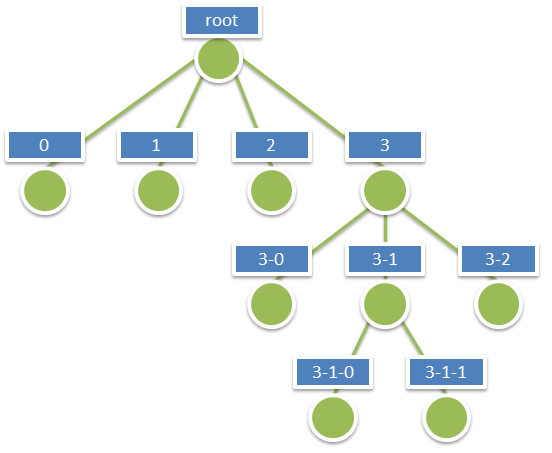
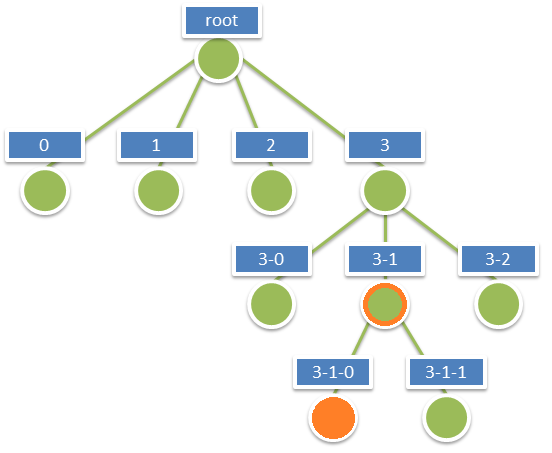
indexing model and tree structure

Changed region(s): [[0.5543, 0.8653, 0.6467, 0.989], [0.6467, 0.6181, 0.7391, 0.7417]]

diff --git a/format/Indexed 3d Scene Layer Format Specification.md b/format/Indexed 3d Scene Layer Format Specification.md
@@ -73,7 +73,7 @@ The Esri Indexed 3d Scene layer (I3S) format and the corresponding Scene Layer P
 
 <h2><a name="_2">3D Scene Layer</a></h2>
 
-A single I3S data set is referred to as a Scene Layer.  It is a container for arbitrarily large amounts of heterogeneously distributed 3D geographic data.  Scene Layers provide clients access to data, and allow them the flexibility to visualize it according to their needs.  The definition of "data" in this case includes the geometry, attributes, and vertex geometry. 
+A single I3S data set is referred to as a Scene Layer.  It is a container for arbitrarily large amounts of heterogeneously distributed 3D geographic data.  Scene Layers provide clients access to data and allow them the flexibility to visualize it according to their needs.  The definition of "data" in this case includes the geometry, attributes, and vertex geometry. 
 
 A Scene Layer is characterized by a combination of layer type and profile. The *layer type* describes the kind of geospatial data stored within it. The *layer profile* is exposed to clients and includes additional details on the specific I3S implementation. 
 
@@ -139,7 +139,7 @@ Layer types with the same profile can be leveraged to support different use case
 
 <h2><a name="_3">Coordinate Reference Systems (CRS)</a></h2>
 
-The Coordinate Refrence Systetm of the Indexed 3D Scene Layer should be selected with the following considerations:
+The Coordinate Reference System of the Indexed 3D Scene Layer should be selected with the following considerations:
 
 - Minimize the need for re-projection on the client side
 - Render in both projected and geodetic coordinate reference systems
@@ -157,7 +157,7 @@ To support these considerations, I3S has the following implementation requiremen
 3. The axis order is independent of the Coordinate Reference System.  It will always use the Easting, Northing, Elevation (X, Y, Z) axis order. The Z axis always points up towards the sky.
 
 
-All I3S profiles support writng 3D content in two modes: global and local. In global mode, only European Petroleum Survey Group (EPSG) code 4326 (WGS84) is supported for both index and vertex positions.  It is represented using longitude, latitude, elevation. In local mode, all geodetic Coordiante Reference Systems, including cartesian coordinate systems, are allowed. Both index and position vertex must have the same Coordiate Reference System.
+All I3S profiles support writing 3D content in two modes: global and local. In global mode, only European Petroleum Survey Group (EPSG) code 4326 (WGS84) is supported for both index and vertex positions.  It is represented using longitude, latitude, elevation. In local mode, all geodetic Coordinate Reference Systems, including cartesian coordinate systems, are allowed. Both index and position vertex must have the same Coordinate Reference System.
 
 All I3S layers indicate the coordinate system via the `spatialReference` property in the <a href="_6_2">3dSceneLayerInfo</a> resource. This property is normative.
 
@@ -167,103 +167,66 @@ The <a href="../profiles/common/docs/spatialReference.md">Spatial Reference</a> 
 
 The I3S standard allows either ellipsoidal or orthometeric vertical coordinate systems. This allows I3S to be applied across a diverse range of fields and applications, including those where the definition of elevation and height is important.  
 
-At version 1.5, I3S added support for a vertical coordinate systems. The Well-known Text (WKT) representation of the Coordinate Reference System now includes the vertical coordinate system used by the layer. The `spatialReference` property also includes a Well-known Id (WKID) and a Vertical Coordinate System Well-known ID (VcsWKID).  The client application can consume any of these properties to designated the height model.
+At version 1.5, I3S added support for a vertical coordinate systems. The Well-known Text (WKT) representation of the Coordinate Reference System now includes the vertical coordinate system used by the layer. The `spatialReference` property also includes a Well-known Id (WKID) and a Vertical Coordinate System Well-known ID (VcsWKID).  The client application can consume any of these properties to designate the height model.
 
 The 3dSceneLayerInfo resource includes a coarse metadata property called `heightModelInfo`, which client applications can use to identify if the layer's height model is either orthometric or ellipsoidal.  
 
-See the [3DSceneLayerInfo] and [heightModelInfo] pages for more details.
+See the [3DSceneLayerInfo](docs/1.6/3DSceneLayer.cmn.md) and [heightModelInfo](docs/1.6/heightModelInfo.cmn.md) pages for more details.
 
 
 <h2><a name="_4">Indexed Scene Layers - Organization and Structure</a></h2>
 
-<p> I3S organizes information using a hierarchical, node-based spatial index structure in which each node’s payload may contain features with associated geometry, textures and attributes. The following sections define this structure.</p>
+I3S organizes information using a hierarchical, node-based spatial index.  Each node contains features with geometry, textures and attributes. 
 
 <h3><a name="_4_1">I3S - Indexing Model and Tree Structure</a></h3>
 
-<p>
-The purpose of any index is to allow fast access to blocks of
-relevant data. In an Indexed 3D Scene layer, the spatial extent of the data is split into regions, called <code>nodes</code>,
-with roughly equal amounts of data, and organized into a hierarchical and navigable data structure - the
-index - that allows  the client to quickly discover which data it
-actually needs and the server to quickly locate the data requested by any client.
-Node creation is capacity driven - the smaller the node capacity is, typically the smaller
-the spatial extent of each node will be.  
-</p>
+Indexing allows fast access to data blocks. In an Indexed 3D Scene Layer, the spatial extent of the data is split into regions called *nodes*.  Each node has roughly equivalent amounts of data and is organized hierarchically.  The node index allows clients to efficiently determine which data it needs, and allows the server to quickly locate it.  Node creation is capacity driven. For example, the smaller the node capacity, the smaller the spatial extent of the node. 
 
-<p>
-I3S is agnostic with respect to the model used to index objects/features in 3D space. Both regular partitions of space (e.g. Quadtrees and Octrees) as well as density dependent partitioning of space (e.g. R-Trees) are supported. The specific partitioning scheme is hidden from clients who navigate the nodes in the tree exposed as web resources. The partitioning results in a hierarchical subdivision of 3D space into regions represented by nodes, organized in a bounding volume tree hierarchy (BVH). Each node has an address and nodes may be thought of as equivalent to tiles.  
-</p>
+Any indexing model can be used to generate indices in I3S.  Both regular partitioning of space (e.g. Quadtrees) and density dependent partitioning of space (e.g. R-Trees) are supported.  The partitioning scheme is not exposed to clients.  This partition results in a hierarchical subdivision of 3D space represented by nodes, which are further organized in a bounding volume tree hierarchy (BVH).
 
-<p>
-All Nodes have an ID that is unique within a layer. There are two types of Node ID formats supported by I3S: As string based identifier, referred here to as <i>treekeys</i>, or as integers based on a fixed linearization of the nodes.  
-</p>
+Each node has an ID that is unique within a layer.  I3S supports two types of nodes: *treekeys* and integers.  Treekeys are a string based identifier.  Integer IDs are base on a fixed linearization of the nodes. 
 
-<p>
-In the <i>treekey</i> format, which is loosely modeled on binary search tree concept, the key value is used to indicate both the level and sibling association of a given node, the key directly indicates the position of the node in the tree, allowing sorting of all resources on a single dimension. Treekeys are strings in which levels are separated by dashes:
-"3-1-0" has 3 numeric elements, hence the node is on level 4 ("root" node is at level 1) and the node "3-1" is its parent.  
-The root node always gets ID <code>"root"</code>. An example of this numbering pattern is shown in Figure 1 below.</p>
+The treekey format is loosely modeled on binary search tree concept.  The key value indicates both the level and sibling association of a given node.  The key also indicates the position of the node in the tree, allowing sorting of all resources on a single dimension. 
 
-<div>
-<img src="images/figure-01.png" title="A sample Index Tree with Treekeys" alt="A sample Index Tree with Treekeys">
-<p><em>Figure 1: A sample Index Tree with Treekeys</em></p>
-</div>
+Treekeys are strings in which levels are separated by dashes.  The root node is at level 1 always gets ID `root`.  
 
+For example, take the node with treekey "3-1-0".  Since it has 3 numeric elements 3, 1 and 0, it can be concluded that the node is on level 4.  The parent node has Treekey  "3-1". 
 
-<p>The information for a node is stored in multiple individually accessible resources. The node index document is a lightweight resource that captures the BVH tree topology for the node, in addition to the node’s bounding volume and meta-data used for [LoD Switching](<a name="_4_1">LoD Switching Models</a>) metrics. This resource allows for tree traversal without the need to  access the more voluminous content associated with a node (geometry, texture, attributes). The decision to render a node by the client application is based on its bounding-volume visibility in the current 3D view. Once the node's bounding volume is determined to be within the current 3D view of the application, then further evaluation is performed by the client app to determine the visual quality of the node. The node’s quality is estimated as a function of current view parameters, node’s bounding volume and LoD selection metric value of the node.</p>
+![Figure 1: A sample index tree using Treekeys](images/figure-01.png)
 
-<p>The standard supports both minimum bounding spheres (MBS) and oriented bounding boxes (OBB) as a node’s bounding volume.</p>
+*Figure 1: A sample index tree using Treekeys*
 
-<p>Each interior node logically contains or covers the set of information covered by the nodes below it and participates in a path to the leaf nodes below it. Interior nodes may contain generalized or reduced representation of the information contained in descendant nodes.
-</p>
+Each node covers the set of information covered by the nodes below it and is part of the path of the leaf nodes below it. Interior nodes may have a reduced representation of the information contained in descendant nodes.
 
-<p>
-The I3S format models node information using a set of resources - Node Index Documents, Feature Data, Geometry, Attributes, Textures and Shared Descriptors, all of which together represent the set of features or data elements for a given node. These resources are always attached to a node.</p>
-<ul>
-<li>The Node Index Document is a lightweight resource representing a node, its topology within the tree and includes references to other sub-resources. </li>
-<li> The Feature Data sub-resource for a node is a text resource that contains the identifiers for the set of features within a node. It can store the geometry and attributes for all of the features in the node either by value or as references into the geometry and attribute sub-resources for the node.</li>
-<li> The Geometry, Attribute and Texture sub-resources describe the geometry, attribute and texture for the node.  Geometry and attribute sub-resources represent the geometries and attributes of all of the features within the node and include the identifiers of the owning features within the node as well as the mapping between individual feature identifiers and their geometry segments.  Vertices within the geometry contain the appropriate texture coordinates. </li>
-</ul>
-</p>
+Nodes include `NodeIndexDocument`, `FeatureData`, `geometry`, `attribures`, and `SharedResource`.  
 
+- [Node Index Document](docs/1.6/3DSNodeIndexDocument.cmn.md): a lightweight resource that represents a node, its topology, and other sub-resources.
+- [Feature Data](docs/1.6/featureData.cmn.md): a text resource that identifies the features within a node. It can store the geometry and attributes for all the features in the node either by value or by reference. 
+- [Geometry](docs/1.6/geometry.cmn.md): the geometries of the features, the identifiers of the owning features, the mapping between individual feature their geometry segments
+- [Attribute](docs/1.6/attributeStorageInfo.cmn.md): describes the structure of the binary attribute data
+- [Texture](docs/1.6/textureDefinition.cmn.md): describes how a feature is to be rendered
+- [Shared Resource](docs/1.6/sharedResource.cmn.md): models or textures that can be shared among features within the same layer
 
-<p>
-An I3S profile can choose between a single text-based feature-data sub-resource that contains all geometry and attribute information (e.g. <em>Point</em> profile), or separate, binary and self-contained geometry and attribute sub-resources (e.g. <em>mesh-pyramids</em> profile). Applications accessing the latter do not need to first fetch the feature-data resource in order to interpret them.
-</p>
+An I3S profile uses either a single text-based subresources or separate binary subresources.  The text-based resources contain all the geometry an attribute information (e.g. Point profile).  The separate binary subresources have self-contained geometry and attribute subresources (e.g. mesh pyraminds). Applications that use the separate binary subresources do not need to fetch the feature data in order to interpret them.  
 
+Each node has exactly one `NodeIndexDocument` and one `SharedDescirptors` document. The `FeatureData`, `geometry`, and `attribures` can be bundled to help optimize network transfer and client side reactivity.  This helps balance index size and feature splitting with optimal network usage. 
 
-<div>
-<img src="images/figure-02.png" title="Structure of a single Node and attached resources" alt="Structure of a single Node and attached resources.">
-<p>Figure 2: Nodes and their attached resources.</p>
-</div>
+There are always an equal number of `FeatureData` and `geometry` resources.  Each set contains
+the corresponding data elements to render a complete feature.  In order to avoid dependency on the `FeatureData` document, the geometry data is directly available as a binary resource.  The geometry data includes all vertex attributes, feature counts, and mesh segmentation.
 
-<p>Per node, there is exactly one Node Index Document and one Shared Descriptors resource document. FeatureData, Geometry, Texture and Attribute resources can be split into bundles for optimal network transfer and client-side reactivity. This allows balancing between index size, feature splitting (with a relatively large node capacity between 1MB and 10MB)
-and optimal network usage (with a smaller bundle size, usually in the range of
-64kB to 512kB).</p>
+Figure 2 below shows the node tree of an 3D Object Indexed Scene Layer with a mesh pyramid profile.
 
-<p>There are always an equal number <em>n</em> of FeatureData and Geometry resources, and each set contains
-the corresponding data elements to be able to render a complete feature.  Optimal access to all required properties of the geometry data, including the feature to geometry mapping, is available directly from the binary <em>geometry</em> data resource, avoiding unnecessary dependency on the FeatureData document. All vertexAttributes (including position, normal, texture coordinates and color), vertex and feature counts, and mesh segmentation information (faceRanges) are also readily accessible from the <em>geometry</em> resource. </p>
+- `Nodes` are in green circles
+- `node identifiers` are in dark blue rectangles above each node
+- `features` are in orange rectangles within each node.  The numbers in the rectangle are the feature identifiers.
+- `geometry` is in turquoise rectangles. Each geometry resource is an array of geometries, which includes mesh-segmentation information and the feature identifier. 
+- Each node is connected to its children with a green line. 
+- The attribute and texture resources are omitted from the figure for clarity. They follow a similar storage model to geometry.
+- Feature "6" has been generalized away at the lower level of detail node (node "3") and is intentionally no longer represented within its payload.
 
-<div>
-<img src="images/figure-03.png" title="The content of a single I3S Node" alt="The content of a single I3S Node.">
-<p>Figure 3: This diagram illustrates the content of an I3S node as stored in its node index document. </p>
-</div>
+![Figure 2: Example Nodes in a Mesh Pyramid](images/figure-02.png)
 
-
-<p>Figure 4 below shows the node tree of an Indexed Scene Layer whose layer type is 3D Object and whose profile is mesh-pyramids. In the figure:</p>
-<ul>
-<li><code>Nodes</code> are in green, where the hyphenated numbers within the blue boxes represent the identifier or address for each node.</li>
-<li>The orange boxes indicate the <code>features</code> explicitly represented within the node, where the numbers within the box represent feature identifiers.</li>
-<li>Each node has associated geometry, texture and attribute resources that compactly store the <code>geometries</code>, <code>attributes</code> and <code>textures</code> of all of the features explicitly represented by the node, as typed arrays and texture atlases.</li>
-<li>The turquoise boxes show the <code>geometry</code> resource associated with each node. Each geometry resource is an array of geometries. The same resource also stores the mesh-segmentation information, where each individual feature's range of triangles is stored along with the feature identifier (the values in the orange boxes) in a compact form similar to a run length encoding.</li>
-<li>Though both attribute and texture resources are omitted from the figure for clarity, it is worth noting that the attribute of all features of a given node are also stored as <code>attribute</code> resource of the node, following a similar storage model.</li>
-<li>Each node contains explicit references (the green lines) to the child nodes below it in the bounding volume hierarchy. Each node logically covers all of the features covered by the nodes in its sub-tree, though only some of them may be explicitly represented within the node. Applications make the decision (based on the nodes LoD Selection Metrics) on using the representation within the node versus descending to more detailed nodes. </li>
-<li>The figure also illustrates the case where feature "6" has been generalized away at the lower level of detail node (node "3") and is intentionally no longer explicitly represented within its payload.</li>
-</ul>
-
-<div>
-<img src="images/figure-04.png" title="Example Nodes in Mesh Pyramid" alt="Example Nodes in Mesh Pyramid">
-<p><em>Figure 4: Example Nodes in a Mesh Pyramid.  Orange boxes represent features stored explicitly within the node, the numbers represent feature identifiers. Turquoise boxes represent the geometry instances associated with each node – each geometry instance is an aggregate geometry (a geometry collection) that covers all the features in the node. Blue boxes represent the node ids, the hyphenated numbers represent node ids as string based treekeys.</em></p>
-</div>
+*Figure 2: Example Nodes in a Mesh Pyramid*
 
 
 <h3><a name="_4_2">Geometry Model and Storage</a></h3>
